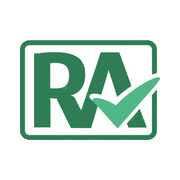
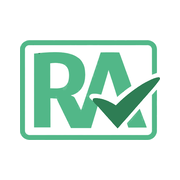
ロゴの色を入れ替え＝全部ミント／チェックだけ濃い（司さん 2026-08-29）
司さん「赤丸がおれのイメージした色やのにロゴの方はなんで濃いん？」
→「全部ミントでチェックだけ変えろや」

★同じ名前が 場所で 2色だった★
  絵の中の字 #2E7D54（濃い）／画面の頭の字 #52B788（ミント）
⇒ 入れ替えた：枠・RA・字 #52B788 ／ チェックだけ #2E7D54
  ★どちらも前から在るブランドの色＝新しい色は作っていない★

・docs/logo/rakunally-mark-src.png を足した
  ＝出来上がりを元絵にすると刷るたび色が回る為、塗り替える前のマークを別に置く。
  字の帯(y>=560)は真っ白＝旧名は1文字も入っていない。
  今のロゴのマーク帯・改名前の元絵と 1ドットも違わない事を実測済み。
・塗り替えは1点ずつ（縁の混ざりも同じ割合で移す）。知らない色が1点でも在れば止まる。
・形は1ドットも変えていない（塗り替えた元絵と出来上がりを突き合わせ＝違い0点）。
・墨と数える線を字の色に合わせた（固定200だと薄い色で下端が1pxずれる）。
・アイコン6枚＋?v= を刷り直し（make-icons --check 全部一致）。
・見張り3本追加（own-name）… 絵の中の名前の色と画面3枚の名前の色が違ったら赤／
  チェックが溶けたら赤／べた塗りが2色以外なら赤。
  ★札は名前でなく字の出し方(DM Mono・20px・-0.5px)で探す★＝改名しても死なない。
  わざと1枚だけ濃い色に戻して赤になる事を確認→戻した。

読みやすさ(WCAG)は #52B788=2.47 で字の線4.50を下回る＝承知の上（司さんの決定）。
戻す条件は make-logo.mjs の頭に書いた。

Claude-Session: https://claude.ai/code/session_01C5aRa2uJxhXw8ECt3a9s4k

Changed region(s): [[0.1111, 0.2222, 0.8889, 0.7778]]

diff --git a/seikyu/index.html b/seikyu/index.html
@@ -9,9 +9,9 @@
 <meta name="apple-mobile-web-app-status-bar-style" content="default">
 <link rel="manifest" href="manifest.json">
 <!-- ★iOSは manifest を見ない＝ここで渡す（透明を持たないPNG＝黒く塗られない）★ -->
-<link rel="apple-touch-icon" href="../img/apple-touch-icon-180.png?v=2dfae617">
-<link rel="icon" type="image/png" sizes="32x32" href="../img/favicon-32.png?v=56581ebc">
-<link rel="icon" type="image/png" sizes="16x16" href="../img/favicon-16.png?v=e0197076">
+<link rel="apple-touch-icon" href="../img/apple-touch-icon-180.png?v=597730a6">
+<link rel="icon" type="image/png" sizes="32x32" href="../img/favicon-32.png?v=382ce080">
+<link rel="icon" type="image/png" sizes="16x16" href="../img/favicon-16.png?v=8b47e8b8">
 <link rel="preconnect" href="https://fonts.googleapis.com">
 <link href="https://fonts.googleapis.com/css2?family=DM+Mono:wght@500&family=Noto+Sans+JP:wght@400;500;700&display=swap" rel="stylesheet">
 <!-- ★見た目の本体はスイート共通の皮。請求書の app.css は差分だけ（読む順は皮が先） -->

diff --git a/kyuyo/index.html b/kyuyo/index.html
@@ -11,9 +11,9 @@
 <meta name="apple-mobile-web-app-status-bar-style" content="default">
 <meta name="apple-mobile-web-app-title" content="給与">
 <!-- ★iOSは manifest を見ない＝ここで渡す（透明を持たないPNG＝黒く塗られない）★ -->
-<link rel="apple-touch-icon" href="../img/apple-touch-icon-180.png?v=2dfae617">
-<link rel="icon" type="image/png" sizes="32x32" href="../img/favicon-32.png?v=56581ebc">
-<link rel="icon" type="image/png" sizes="16x16" href="../img/favicon-16.png?v=e0197076">
+<link rel="apple-touch-icon" href="../img/apple-touch-icon-180.png?v=597730a6">
+<link rel="icon" type="image/png" sizes="32x32" href="../img/favicon-32.png?v=382ce080">
+<link rel="icon" type="image/png" sizes="16x16" href="../img/favicon-16.png?v=8b47e8b8">
 <link rel="preconnect" href="https://fonts.googleapis.com">
 <link href="https://fonts.googleapis.com/css2?family=DM+Mono:wght@500&family=Noto+Sans+JP:wght@400;500;700&display=swap" rel="stylesheet">
 <link rel="stylesheet" href="css/app.css?v=462e325f">

diff --git a/index.html b/index.html
@@ -7,9 +7,9 @@
 <title>Rakunally（ラクナリー）</title>
 <link rel="manifest" href="manifest.json">
 <!-- ★iOSは manifest を見ない＝ここで渡す（透明を持たないPNG＝黒く塗られない）★ -->
-<link rel="apple-touch-icon" href="img/apple-touch-icon-180.png?v=2dfae617">
-<link rel="icon" type="image/png" sizes="32x32" href="img/favicon-32.png?v=56581ebc">
-<link rel="icon" type="image/png" sizes="16x16" href="img/favicon-16.png?v=e0197076">
+<link rel="apple-touch-icon" href="img/apple-touch-icon-180.png?v=597730a6">
+<link rel="icon" type="image/png" sizes="32x32" href="img/favicon-32.png?v=382ce080">
+<link rel="icon" type="image/png" sizes="16x16" href="img/favicon-16.png?v=8b47e8b8">
 <link rel="preconnect" href="https://fonts.googleapis.com">
 <link rel="preconnect" href="https://fonts.gstatic.com" crossorigin>
 <link href="https://fonts.googleapis.com/css2?family=DM+Mono:wght@500&family=Noto+Sans+JP:wght@400;700&display=swap" rel="stylesheet">

diff --git a/kyuyo/meisai.html b/kyuyo/meisai.html
@@ -14,8 +14,8 @@
      ★iOSは apple-touch-icon に SVG を使えない★ので PNG に焼いた物を渡す（今までは絵が出なかった）。
      絵は元から在ったSVGをそのまま焼いた物＝描き直していない（scripts/make-icons.mjs）。 -->
 <link rel="apple-touch-icon" href="img/meisai-180.png?v=2b5a7f40">
-<link rel="icon" type="image/png" sizes="32x32" href="../img/favicon-32.png?v=56581ebc">
-<link rel="icon" type="image/png" sizes="16x16" href="../img/favicon-16.png?v=e0197076">
+<link rel="icon" type="image/png" sizes="32x32" href="../img/favicon-32.png?v=382ce080">
+<link rel="icon" type="image/png" sizes="16x16" href="../img/favicon-16.png?v=8b47e8b8">
 <!-- ★ホーム画面の絵は 本物のロゴを使う★（2026-08-19）
      前は data: の中に ★手描きの「給」SVG★ を埋めていたので、
      08-18 にロゴへ差し替えた時 ★ここだけ古い絵のまま★ 残っていた。

diff --git a/kyuyo/admin.html b/kyuyo/admin.html
@@ -12,8 +12,8 @@
 <meta name="apple-mobile-web-app-title" content="Rakunally管理">
 <!-- ★ホーム画面は「管」で見分ける（給与と並ぶので同じ絵にしない）／タブの絵は Rakunally ★ -->
 <link rel="apple-touch-icon" href="img/admin-192.png?v=268f435d">
-<link rel="icon" type="image/png" sizes="32x32" href="../img/favicon-32.png?v=56581ebc">
-<link rel="icon" type="image/png" sizes="16x16" href="../img/favicon-16.png?v=e0197076">
+<link rel="icon" type="image/png" sizes="32x32" href="../img/favicon-32.png?v=382ce080">
+<link rel="icon" type="image/png" sizes="16x16" href="../img/favicon-16.png?v=8b47e8b8">
 <style>
   /* ★押す物の色は Rakunally 全画面で 1組★（司さん 2026-08-29「統一感は？」）
      --accent  … 塗る本命 #3D9E72（皮 css/rakunally-ui.css の .btn-primary と 同じ値）
